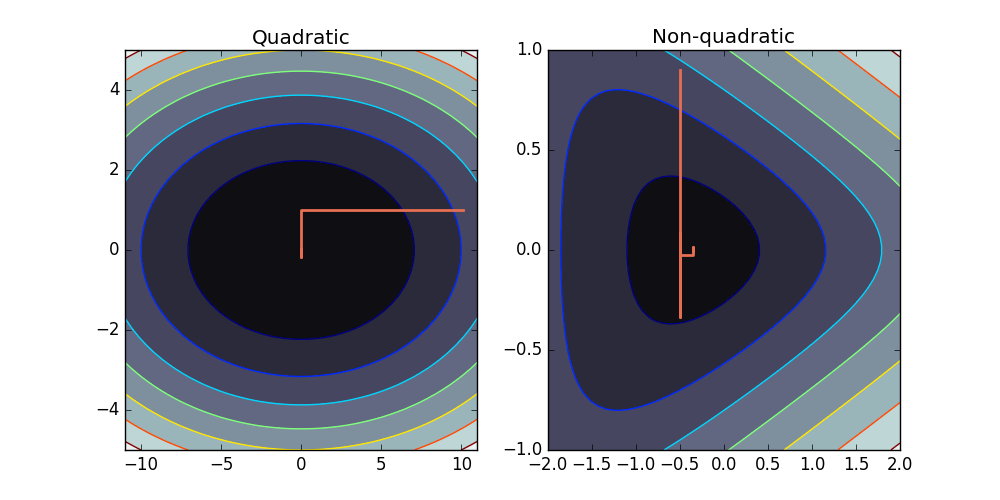
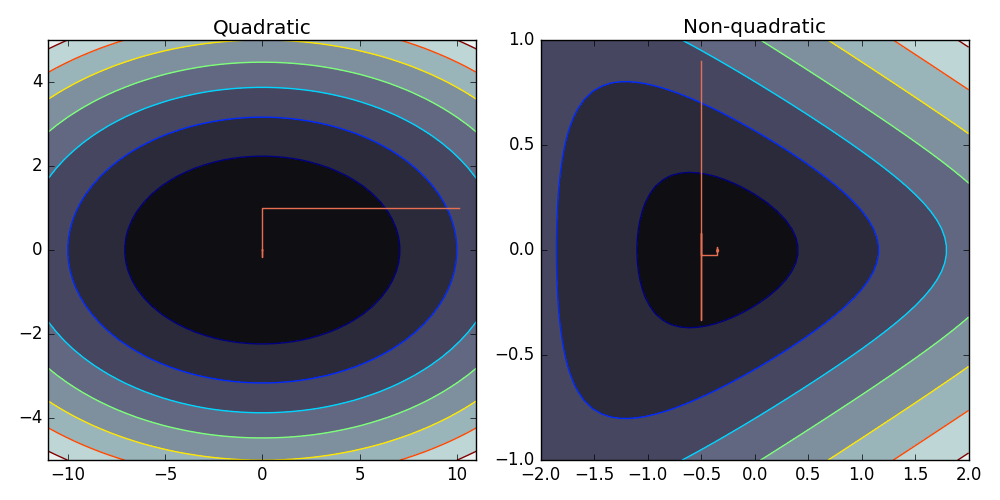
Working on chapter 2.

diff --git a/Chapters/02.Unconstrained/teachingtools.py b/Chapters/02.Unconstrained/teachingtools.py
@@ -14,7 +14,7 @@ import sympy as sp
 #from unconstrained import gradient_descent, newtons_method, coordinate_descent
 import matplotlib.pyplot as plt
 from sys import path
-path.append('../../Scripts')
+path.append('../../helpers/')
 from plotting import plot_contour, add_path, blue, red, green, yellow, orange
 
 # VISUALIZATION
@@ -100,21 +100,26 @@ def show_inexact_ls(alpha=0.4, beta=0.9, Dx=10):
     t_begin = -0.4
     t_end = 1.5
     tvals = np.linspace(t_begin, t_end)
-    ax.plot(tvals, f(tvals * Dx), label=r'$f(x+t\Delta x)$')
-    ax.plot(tvals, f(0) + tvals * df(0) * Dx, 'r-', label=r'$f(x)+t\nabla f(x)^\top \Delta x$')
-    ax.plot(tvals, f(0) + tvals * df(0) * alpha * Dx, 'r--', label=r'$f(x)+t\alpha\nabla f(x)^\top \Delta x$')
+    ax.plot(tvals, f(tvals * Dx), color=blue, label=r'$f(x+t\Delta x)$')
+    ax.plot(tvals, f(0) + tvals * df(0) * Dx, color=red,
+                label=r'$f(x)+t\nabla f(x)^\top \Delta x$')
+    ax.plot(tvals, f(0) + tvals * df(0) * alpha * Dx, color=red, ls='--',
+                        label=r'$f(x)+t\alpha\nabla f(x)^\top \Delta x$')
     t = 1
     n_steps = 0
     while f(t * Dx) > f(0) + alpha * t * df(0) * Dx:
-        ax.plot([t, t], [f(t * Dx), f(0) + alpha * t * df(0) * Dx], 'g-', lw=2)
+        ax.plot([t, t], [f(t * Dx), f(0) + alpha * t * df(0) * Dx], color=green,
+                                    lw=2)
         f_old = f(t * Dx)
         t *= beta
-        ax.plot([t, t / beta], [f(0) + alpha * t * df(0) * Dx, f_old], 'g-', lw=2)
+        ax.plot([t, t / beta], [f(0) + alpha * t * df(0) * Dx, f_old],
+                                    color=green, lw=2)
         n_steps += 1
     print('Converged after {} steps'.format(n_steps))
     ax.set_xlabel('$t$')
     ax.grid()
     ax.legend(loc=3)
+    return fig
 
 
 # defining the quadric function, gradient and hessian
@@ -254,4 +259,6 @@ def logistic_toy(separation=0, log_lambda=1):
     ax1.set_title('Contours of likelihood function')
 
 if __name__ == '__main__':
-    pass
+    # make figure
+    fig = show_inexact_ls(alpha=0.4, beta=0.9, Dx=10)
+    fig.savefig('Figures/btls.png')

diff --git a/Chapters/02.Unconstrained/unconstrained.py b/Chapters/02.Unconstrained/unconstrained.py
@@ -1,7 +1,7 @@
 # -*- coding: utf-8 -*-
 """
 Created on Tue 19 Jan 2016
-Last update: Tue 14 Feb 2016
+Last update: Wed 27 Dec 2017
 
 @author: Michiel Stock
 michielfmstock@gmail.com
@@ -158,6 +158,7 @@ if __name__ == '__main__':
     ax.scatter(0, function(0), color=green, label='$x_0$')
     ax.vlines(0+tbest*Dx, -7, -1, red)
     ax.legend(loc=0)
+    fig.tight_layout()
     fig.savefig('Figures/backtracking_ls.png')
 
     # assignment 2
@@ -185,6 +186,7 @@ if __name__ == '__main__':
     print('Number of steps non-quadratic function (gradient descent): {}'.format(len(
                     f_steps_nq) - 1))
 
+    fig.tight_layout()
     fig.savefig('Figures/gradient_descent.png')
 
     fig, (ax1, ax2) = plt.subplots(ncols=2, figsize=(10, 5))
@@ -200,6 +202,7 @@ if __name__ == '__main__':
         ax.set_xlabel('Iteration')
         ax.set_ylabel('Absolute error')
 
+    fig.tight_layout()
     fig.savefig('Figures/convergence_gd.png')
 
     # assignment 3
@@ -222,7 +225,7 @@ if __name__ == '__main__':
     add_path(ax2, x_steps_nq, red)
 
     print('Number of steps non-quadratic function (steepest descent): {}'.format(len(f_steps_nq) - 1))
-
+    fig.tight_layout()
     fig.savefig('Figures/steepest_descent.png')
 
     fig, (ax1, ax2) = plt.subplots(ncols=2, figsize=(10, 5))
@@ -237,6 +240,7 @@ if __name__ == '__main__':
         ax.set_xlabel('Iteration')
         ax.set_ylabel('Absolute error')
 
+    fig.tight_layout()
     fig.savefig('Figures/convergence_sd.png')
 
     # assignment 4
@@ -262,7 +266,7 @@ if __name__ == '__main__':
 
     print("Number of steps non-quadratic function (Newton's method): {}".format(len(
                                 x_steps_nq) - 1))
-
+    fig.tight_layout()
     fig.savefig('Figures/newtons_method.png')
 
     fig, (ax1, ax2) = plt.subplots(ncols=2, figsize=(10, 5))
@@ -276,4 +280,5 @@ if __name__ == '__main__':
         ax.set_xlabel('iteration')
         ax.set_ylabel('function value')
 
+    fig.tight_layout()
     fig.savefig('Figures/convergence_nm.png')

diff --git a/Chapters/02.Unconstrained/notes_unconstrained.md b/Chapters/02.Unconstrained/notes_unconstrained.md
@@ -6,9 +6,9 @@ In this chapter we will study unconstrained convex problems, i.e. problems of th
 $$
 \min_\mathbf{x}\, f(\mathbf{x})\,,
 $$
-in which $f$ is convex. Convex optimization problems are well understood. Their most attractive property is that when a minimizer exists, it is unique.
+in which $f$ is convex. Convex optimization problems are well understood. Their most attractive property is that when a minimizer exists, the minimizer is the unique global minimizer.
 
-Most convex optimization problems, of which the quadratic problems are a notable exception, do not have a closed-from solution. We will again use descent methods to find an approximate solution.
+Most convex optimization problems do not have a closed-from solution, with the quadratic problems as a notable exception. We will hence again have to resort to descent methods to find an (arbitrary accurate) approximate solution.
 
 ## Convex sets and functions
 
@@ -21,7 +21,7 @@ Most convex optimization problems, of which the quadratic problems are a notable
 > \theta x + (1 − \theta)x' \in \mathcal{C}\,.
 > $$
 
-Figure: some convex and non-convex sets
+Figure: some convex and non-convex sets #TODO
 
 ### Convex functions
 
@@ -34,18 +34,18 @@ Figure: some convex and non-convex sets
 > f(\theta \mathbf{x} + (1-\theta)\mathbf{x}) \leq\theta f(\mathbf{x}) +(1-\theta)f(\mathbf{x})\,.
 > $$
 
-examples
+examples #TODO
 
-Figure
+Figure  #TODO
 
 From the definition, it follows that:
 - If the function is differentiable, then $f(\mathbf{x})\geq f(\mathbf{x}')+\nabla f(\mathbf{x}')(\mathbf{x}-\mathbf{x}')$ for all $\mathbf{x}$ and $\mathbf{x}' \in \text{dom}(f)$.
 - If the function is twice differentiable, then $\nabla^2 f(\mathbf{x})\succeq 0$ for any $\mathbf{x}\in\text{dom}(f)$.
 
-Figure!
+Figure!  #TODO
 
 Convex functions frequently arise:
-- Ff $f$ and $g$ are both convex, then $m(x)=\max(f(x), g(x))$ and $h(x)=f(x)+g(x)$ are also convex.
+- If $f$ and $g$ are both convex, then $m(x)=\max(f(x), g(x))$ and $h(x)=f(x)+g(x)$ are also convex.
 - If $f$ and $g$ are convex functions and $g$ is non-decreasing over a univariate domain, then $h(x)=g(f(x))$ is convex. Example: $e^{f(x)}$ is convex if $f(\mathbf{x})$ is convex.
 
 Note, the convexity of expected value in probability theory gives rise to **Jensen's inequality**. For any convex function $\varphi$, if holds that
@@ -128,7 +128,7 @@ Exact line search is used when the cost of solving the above minimization proble
 
 Often, the descent methods work well when the line search is done only approximately. This is because the computational resourches are better spend to performing more *approximate* steps in the differnt directions because the direction of descent will change anyway.
 
-Many methods exist for this, we will consider the *backtracking line search*, described by the following pseudocode.
+Many methods exist for this, we will consider the *backtracking line search* (BTLS), described by the following pseudocode.
 
 > **input** starting point $x\in$ **dom** $f$, descent direction $\Delta x$, $\alpha\in(0,0.05)$ and $\beta\in(0,1)$.
 >
@@ -140,6 +140,8 @@ Many methods exist for this, we will consider the *backtracking line search*, de
 >
 >
 >**output** $t$
+
+![Illustration of the backtracking line search.](Figures/btls.png)
 
 **Assignment 1**
 1. Complete the code for the backtracking line search
@@ -202,9 +204,9 @@ $$
 iterations, where $c =1-\frac{m}{M}<1$.
 
 We conclude:
-1. Number of steps needed for a given quality is proportional to the logarithm of the initial error.
-2. To increase the accuracy with an order of magnitude, only a few more steps are needed.
-3. Convergence is again determined by the *condition number* $m/M$. Note that for large condition numbers: $\log(1/c)=-\log(1-\frac{m}{M})\approx m/M$, so the number of required iterations increases linearly with increasing $m/M$.
+- Number of steps needed for a given quality is proportional to the logarithm of the initial error.
+- To increase the accuracy with an order of magnitude, only a few more steps are needed.
+- Convergence is again determined by the *condition number* $m/M$. Note that for large condition numbers: $\log(1/c)=-\log(1-\frac{m}{M})\approx m/M$, so the number of required iterations increases linearly with increasing $m/M$.
 
 ### Illustration
 
@@ -252,7 +254,7 @@ def gradient_descent(f, x0, grad_f, alpha=0.2, beta=0.7,
 Optimize the first-order Taylor approximation of a function:
 
 $$
-f(\mathbf{x}+\mathbf{v}) \approx \hat{f}(\mathbf{x}+\mathbf{v}) =f(\mathbf{x}) +\nabla f(\mathbf{x})^T \mathbf{v}\,.
+f(\mathbf{x}+\mathbf{v}) \approx \hat{f}(\mathbf{x}+\mathbf{v}) =f(\mathbf{x}) +\nabla f(\mathbf{x})^\top \mathbf{v}\,.
 $$
 
 The linear approximation $\hat{f}$ can be made arbitrary negative if we can freely choose $\mathbf{v}$! We have to contrain the *norm* of $\mathbf{v}$.
@@ -270,9 +272,7 @@ $$
 ||\mathbf{x}||_p = \left(\sum_{i=1}^n |x_i|^p\right)^\frac{1}{2}\,.
 $$
 
-Example figure
-
-Consider $P\in \mathbb{R}^{n\times n}$ such that $P\succ 0$. The  corresponding **quadratic norm*:
+Consider $P\in \mathbb{R}^{n\times n}$ such that $P\succ 0$. The  corresponding *quadratic norm*:
 $$
 ||\mathbf{z}||_P = (\mathbf{z}^\intercal P\mathbf{z})^\frac{1}{2}=||P^\frac{1}{2}\mathbf{z}||_2\,.
 $$
@@ -330,6 +330,8 @@ Using the $L_1$ norm results in coordinate descent.
 Here, $e_i$ is the $i$-th basic vector.
 
 The stopping criterion is usually of the form $||\nabla f(\mathbf{x})||_2 \leq \nu$.
+
+![Coordinate descent.](Figures/steepest_descent.png)
 
 **Assignment 3**
 1. Complete the implementation of the coordinate descent method.
@@ -450,7 +452,7 @@ Thus $\frac{1}{2} \lambda(x)^2$ is an estimate of $f(x) - p^*$, based on the qua
 >
 >**output** $\mathbf{x}$
 
-The above algorithm is sometimes called the *damped* Newton method, as it uses a variable step size $t$. In practice, using a fixed step also works well.
+The above algorithm is sometimes called the *damped* Newton method, as it uses a variable step size $t$. In practice, using a fixed step also works well. Here, one has to consider the computational cost of using BTLS versus performing a few extra Newton steps to attain the same accuracy.
 
 **Assignment 4**
 1. Complete the code for Newton's method.
@@ -496,14 +498,14 @@ Iterations in Newton’s method fall into two stages:
 
 After a sufficiently large number of iterations, the number of correct digits doubles at each iteration.
 
-Illustration!
+Illustration #TODO: make figure of the convergence of Newton
 
 ### Summary Newton's method
 
-* Convergence of Newton's algorithm is rapid and quadratic near $x^*$
-* Newton's algorithm is affine invariant, e.g. invariant to choice of coordinates or condition number
-* Newton's algorithm scales well with problem size
-* The hyperparameters $\alpha$ and $\beta$ do not influence the performance much.
+* Convergence of Newton's algorithm is rapid and quadratic near $\mathbf{x}^*$.
+* Newton's algorithm is affine invariant, e.g. invariant to choice of coordinates or condition number.
+* Newton's algorithm scales well with problem size. Computationally, computing and storing the Hessian might be prohibitive.
+* The hyperparameters $\alpha$ and $\beta$  of BTLS do not influence the performance much.
 
 ## Quasi-Newton methods
 
@@ -551,3 +553,5 @@ $$
 Here, the first part is the cross entropy, which penalizes disagreement between the prediction $f(\mathbf{x}_i)$ and the true label $y_i$, while the second term penalizes complex models in which $\mathbf{w}$ has a large norm. The trade-off between these two components is controlled by $\lambda$, a hyperparameters. In the course *Predictive modelling* it is explained that by carefully tuning this parameter one can obtain an improved performance. **In this project we will study the influence $\lambda$ on the convergence of the optimization algorithms.**
 
 Below is a toy example in two dimensions illustrating the loss function.
+
+Complete: #TODO: add the questions and load the data

diff --git a/README.md b/README.md
@@ -91,4 +91,4 @@ This course consists of three main parts:
 
 ## Thanks
 
-Bernard De Baets, Raul Pérez-Fernández
+Bernard De Baets, Raúl Pérez-Fernández
